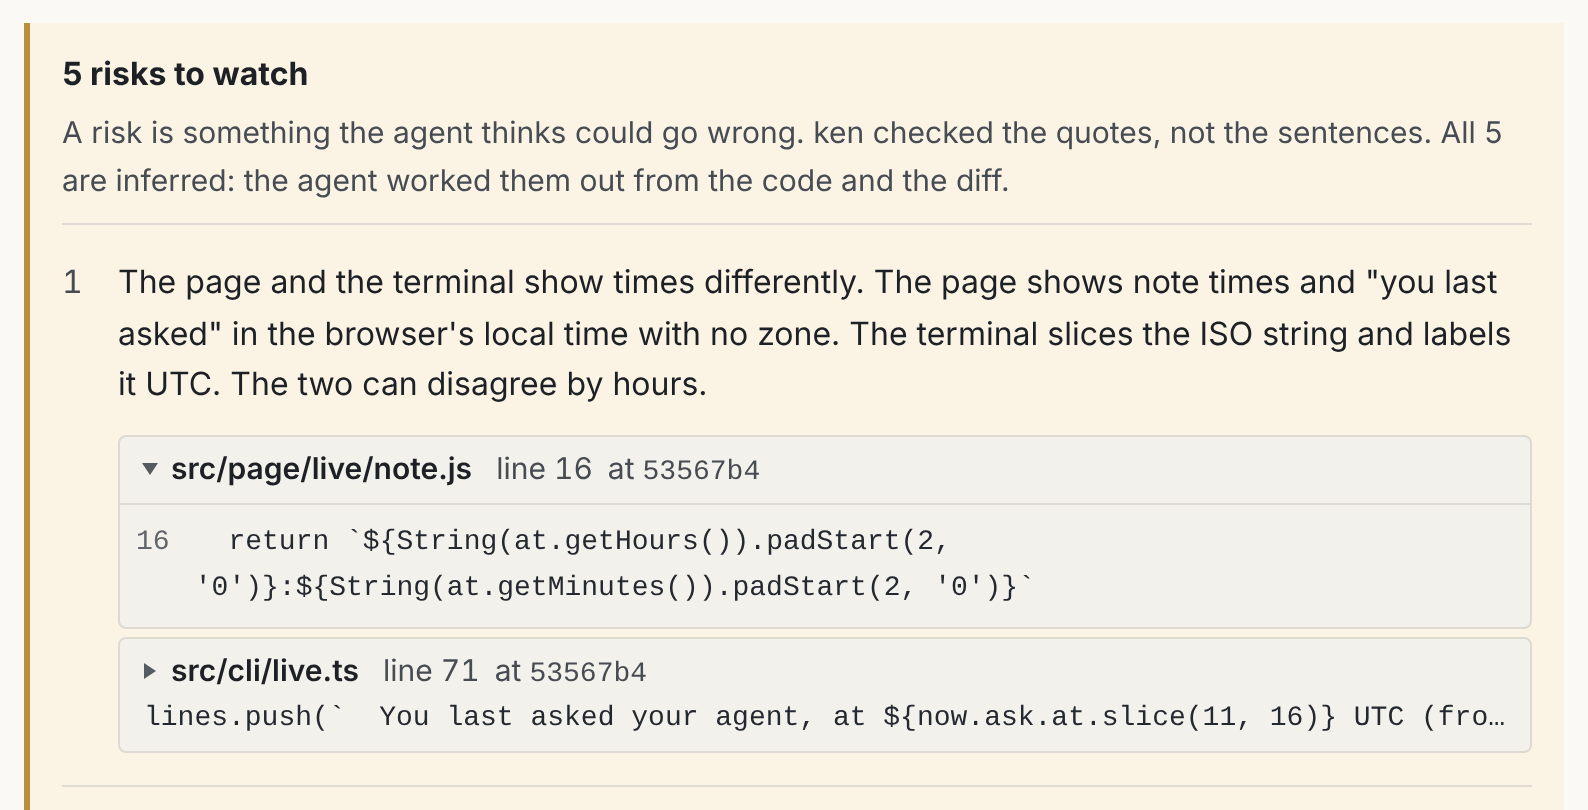
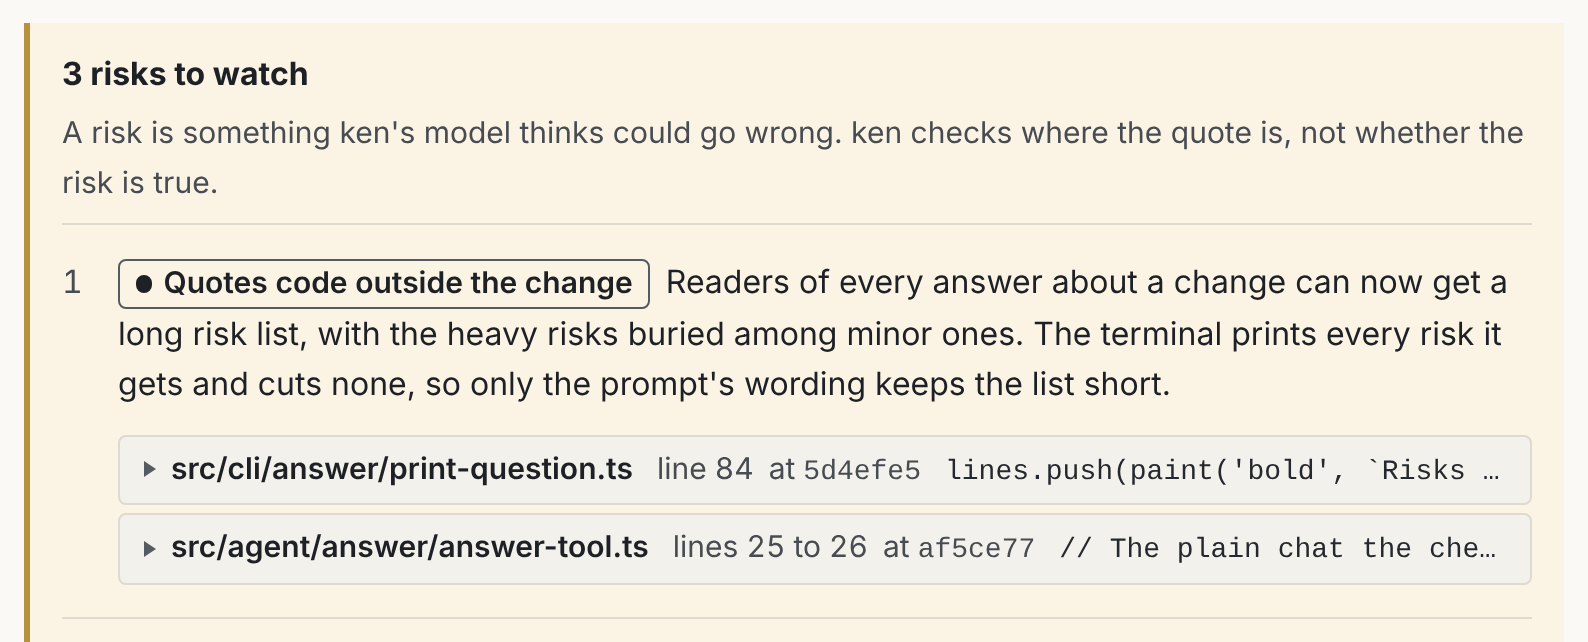
docs: the page and README use ken's new risk marks, and the first picture shows one
The landed code calls the two risk marks "Quotes code outside the
change" and "Quotes only the changed lines" and says that ken checks
where the quote is, not whether the risk is true. The page and README
now use those words, say that ken keeps every risk, and say that an
answer about a change that touches two or more parts opens with a
diagram.

The first picture is new: a risk from a real answer on Claude Opus,
through ken's local endpoint, about ken's own commit 5d4efe5. It shows
the new mark, and its quotes stay folded, so no code line wraps on a
phone. A phone now skips the Decisions picture, the cost paragraph is
two sentences, and two sentences that repeated the hero or the drawing
are gone.

Claude-Session: https://claude.ai/code/session_01QWPt5VADuetGKQKPnSahUf

diff --git a/site/index.html b/site/index.html
@@ -35,21 +35,21 @@
 			<figure class="shot">
 				<a href="images/ken-risk-with-quotes-wide.png">
 					<picture>
-						<source media="(max-width: 34rem) and (prefers-color-scheme: dark)" srcset="images/ken-risk-with-quotes-narrow-dark.png 2x" width="382" height="623" />
-						<source media="(max-width: 34rem)" srcset="images/ken-risk-with-quotes-narrow.png 2x" width="382" height="623" />
-						<source media="(prefers-color-scheme: dark)" srcset="images/ken-risk-with-quotes-wide-dark.png 2x" width="794" height="405" />
-						<img src="images/ken-risk-with-quotes-wide.png" srcset="images/ken-risk-with-quotes-wide.png 2x" width="794" height="405" alt="The heading 5 risks to watch, then risk 1: The page and the terminal show times differently. The page shows note times and &quot;you last asked&quot; in the browser's local time with no zone. The terminal slices the ISO string and labels it UTC. The two can disagree by hours. Under it are two quotes at commit 53567b4. The first is open and shows line 16 of src/page/live/note.js, which builds the time from getHours and getMinutes. The second is line 71 of src/cli/live.ts, which prints the time with the word UTC." />
+						<source media="(max-width: 34rem) and (prefers-color-scheme: dark)" srcset="images/ken-risk-with-quotes-narrow-dark.png 2x" width="366" height="525" />
+						<source media="(max-width: 34rem)" srcset="images/ken-risk-with-quotes-narrow.png 2x" width="366" height="525" />
+						<source media="(prefers-color-scheme: dark)" srcset="images/ken-risk-with-quotes-wide-dark.png 2x" width="794" height="321" />
+						<img src="images/ken-risk-with-quotes-wide.png" srcset="images/ken-risk-with-quotes-wide.png 2x" width="794" height="321" alt="The heading 3 risks to watch, and the line: A risk is something ken's model thinks could go wrong. ken checks where the quote is, not whether the risk is true. Then risk 1, marked Quotes code outside the change: Readers of every answer about a change can now get a long risk list, with the heavy risks buried among minor ones. The terminal prints every risk it gets and cuts none, so only the prompt's wording keeps the list short. Under it are two folded quotes: line 84 of src/cli/answer/print-question.ts at commit 5d4efe5, and lines 25 to 26 of src/agent/answer/answer-tool.ts at af5ce77." />
 					</picture>
 				</a>
-				<figcaption>Screenshot of ken's own page. The model was Claude Opus. It shows the first of five risks in its answer to "What did the last three commits do, and why?" about ken's own repository, with the first quote open.</figcaption>
+				<figcaption>Screenshot of ken's own page. The model was Claude Opus, through ken's local endpoint. It shows the first of three risks in ken's answer to "What did the last commit do, and why?" about ken's own repository at commit 5d4efe5, the commit that removed the cap on risks.</figcaption>
 			</figure>
 
 			<section aria-labelledby="check">
 				<h2 id="check">What is in an answer, and what ken checks</h2>
 				<p>
 					An answer has a short summary, then the decisions with their reasons, the risks, and plain statements. Ask
-					how the parts fit together and it opens with one or two basic diagrams, where each box and arrow quotes its
-					lines too.
+					how the parts fit together, or about a change that touches two or more parts, and it opens with a basic
+					diagram, where each box and arrow quotes its lines too.
 				</p>
 				<figure class="shot">
 					<a href="images/ken-answer-with-diagram-wide.png">
@@ -68,8 +68,7 @@
 				</p>
 				<p>
 					The check covers only the quotes. It does not check that a sentence, a risk or an arrow is true, and it
-					does not check the summary. ken never shows an answer that fails the check. The agent tries again, up to three
-					times. The commits, their authors and dates, and the changed lines no quote covers come from git.
+					does not check the summary. If the check rejects an answer, the agent tries again, up to three times. The commits, their authors and dates, and the changed lines no quote covers come from git.
 				</p>
 				<p>A label says how the agent knows each claim:</p>
 				<ul class="labels">
@@ -92,7 +91,7 @@
 				</ul>
 				<p>
 					ken, not the model, also marks each risk "Quotes code outside the change" or "Quotes only the changed
-					lines". That label says where a quote is. It does not say the risk is true.
+					lines". ken checks where the quote is, not whether the risk is true.
 				</p>
 			</section>
 
@@ -189,7 +188,7 @@
 				<p>
 					Outside <code>.ken/</code> in the project and <code>~/.ken/</code> on your machine, ken writes nothing. It
 					never edits your code, commits or pushes. The project record holds what passed the check: decisions, topics, and which commits belong together as one
-					task, with a short summary. You commit it for collaborators and their agents. ken only adds to it.
+					task, with a short summary. You commit it for collaborators and their agents.
 				</p>
 				<p>
 					ken uses any OpenAI-compatible endpoint, or the <code>claude</code> command through a small local endpoint
@@ -212,7 +211,7 @@
 					"Decisions" lists every decision saved for the project, with its label and where its reason comes from. A
 					later decision on the same question replaces the older one.
 				</p>
-				<figure class="shot">
+				<figure class="shot shot-wide-only">
 					<a href="images/ken-decisions-wide.png">
 						<picture>
 							<source media="(max-width: 34rem) and (prefers-color-scheme: dark)" srcset="images/ken-decisions-narrow-dark.png 2x" width="390" height="270" />
@@ -269,10 +268,10 @@
 					per pull request is a noisy measure, and a pass is not proof.
 				</p>
 				<p>
-					ken is also slower. An answer took two to four minutes on Claude Opus and four to eight on glm-5.3, against
-					one to three in the plain chat. The second look took about half of ken's input tokens. ken's answers are
-					longer, and the plain chat reads faster. In round 5 one of ken's risks was false, and still carried the label
-					for quoting code outside the change.
+					ken's answers are longer and slower to read than the plain chat's, and slower to make, at two to four minutes on
+					Claude Opus and four to eight on glm-5.3 against one to three, with the second look taking about half of
+					ken's input tokens. In round 5 one of ken's risks was false, and still carried the mark "Quotes code outside
+					the change".
 				</p>
 				<details class="rounds">
 					<summary>The five rounds, one by one</summary>
@@ -292,7 +291,7 @@
 						</li>
 						<li>
 							<strong>Round 5</strong> made the second look read the code each risk points at, and ask what happens
-							when two decisions touch the same thing. It also put the risks in order and added the risk labels. With
+							when two decisions touch the same thing. It also put the risks in order and added ken's two marks on risks. With
 							Claude Opus on both sides, three more pull requests ken had never seen passed. Finding more was a tie on
 							two and a narrow win for ken on one, and the judge said a count of finds gives a tie, or ken by one. The
 							three tuned ones passed. The two others failed narrowly on finding more, and so did the three that had

diff --git a/site/style.css b/site/style.css
@@ -368,7 +368,7 @@ footer p + p {
 		padding-top: var(--space-4);
 	}
 
-	/* A phone skips the live note's capture, to keep the page short. */
+	/* A phone skips the captures of Decisions and of a live note, to keep the page short. */
 	.shot-wide-only {
 		display: none;
 	}

diff --git a/README.md b/README.md
@@ -2,9 +2,9 @@
 
 ken explains a software project to the developer who owns it. It tells you what changed, why it changed, and how a part of the code works now, and each claim in its answer quotes lines you can check. It is built for projects where AI agents write most of the code.
 
-![Risk 1 of 5 in an answer: the page and the terminal show times differently, because the page shows note times in the browser's local time with no zone, while the terminal slices the ISO string and labels it UTC. Under it are two quotes at commit 53567b4: line 16 of src/page/live/note.js and line 71 of src/cli/live.ts.](site/images/ken-risk-with-quotes-wide.png)
+![Risk 1 of 3 in an answer, marked Quotes code outside the change: readers of every answer about a change can now get a long risk list, with the heavy risks buried among minor ones, because the terminal prints every risk it gets and cuts none. Under it are two folded quotes: line 84 of src/cli/answer/print-question.ts at commit 5d4efe5, and lines 25 to 26 of src/agent/answer/answer-tool.ts at af5ce77.](site/images/ken-risk-with-quotes-wide.png)
 
-Screenshot of ken's own page. The model was Claude Opus. It shows the first of five risks in its answer to "What did the last three commits do, and why?" about this repository.
+Screenshot of ken's own page. The model was Claude Opus, through ken's local endpoint. It shows the first of three risks in ken's answer to "What did the last commit do, and why?" about this repository at commit 5d4efe5, the commit that removed the cap on risks.
 
 ## Status
 
@@ -13,8 +13,8 @@ Early work. ken is not released, it has no license yet, there is nothing to inst
 What runs today:
 
 - `ken open` starts a page on your machine, and `ken chat` and `ken ask` answer in the terminal. `ken record`, `ken map`, `ken follow-up`, `ken who`, `ken since`, `ken catch-up`, `ken area`, `ken decide`, `ken sessions` and `ken live` are described under [Run it](#run-it).
-- An answer has a short summary, one or two basic diagrams for a high-level question, then the decisions with their reasons, the risks, and statements. Each carries quotes of lines of code, of a commit message, or of a saved session of the coding agent. ken checks that every quoted line is where the quote says, and rejects an answer with a quote that is not there. It does not check that a sentence, a risk or an arrow is true, and it does not check the summary. ken shows no answer that fails the check: the agent tries again, up to three times. The commits, authors and dates, and which changed blocks and commit messages the quotes cover, come from git.
-- For a question about a change, ken searches the code at the head commit for the names the change defines, alters or removes, and gives the model the places that use them, under "Used elsewhere". After the first answer passes, ken asks the model for a second look at its risks: read the code each risk points at, ask what happens when two decisions touch the same thing, and put the risks in order, heaviest first.
+- An answer has a short summary, one or two basic diagrams for a high-level question or a change that touches two or more parts, then the decisions with their reasons, the risks, and statements. Each carries quotes of lines of code, of a commit message, or of a saved session of the coding agent. ken checks that every quoted line is where the quote says, and rejects an answer with a quote that is not there. It does not check that a sentence, a risk or an arrow is true, and it does not check the summary. ken shows no answer that fails the check: the agent tries again, up to three times. The commits, authors and dates, and which changed blocks and commit messages the quotes cover, come from git.
+- For a question about a change, ken searches the code at the head commit for the names the change defines, alters or removes, and gives the model the places that use them, under "Used elsewhere". After the first answer passes, ken asks the model for a second look at its risks: read the code each risk points at, ask what happens when two decisions touch the same thing, and put the risks in order, heaviest first. ken keeps every risk the model sends. ken marks each risk "Quotes code outside the change" or "Quotes only the changed lines". ken checks where the quote is, not whether the risk is true.
 - ken sets a label where it can. "Recorded" means a coding agent logged the decision with `ken decide` as it worked, or the reason is quoted from a commit message. "From the session" means the reason is quoted from a saved session. "Inferred" means the agent worked it out. "Found by search" marks a link between pieces of code that the agent found by searching and did not prove.
 - The project record lives in `.ken/record/` in your repository, as JSON Lines files that ken only adds to. You commit it, so a collaborator and their agents can read it. ken never commits, and never writes to your project besides `.ken/`. Your question history and your understanding map live in `~/.ken/projects/<first commit>/` on your machine.
 - The understanding map keeps what you said you know, topic by topic. A topic you know whose quoted code has not changed shortens to one line. When the code changed, the answer starts with what changed. "Waiting on you" lists the decisions that need your call and the topics that changed since you understood them, with who changed them. You answer a decision with "Keep what was chosen" or "I want it changed". ken saves your answer and note, and changes no code. "Decisions" lists every decision in the record, and a later decision on the same question replaces the older one.
@@ -34,9 +34,9 @@ ken won trust without the diff and finding it again in every round, on both mode
 
 - Rounds 1 to 3 ran ken on glm-5.3, then on Claude Opus, against the plain chat on Claude Opus. Rounds 1 and 2 used three pull requests, and ken was tuned on these three. Round 3 added two more. ken lost finding more in every round.
 - Round 4 added the "Used elsewhere" list and the second look at risks. With Claude Opus on both sides, ken passed on the three tuned pull requests for the first time, with a tie on finding more. It failed on the two others, and lost finding more on one of them. On three pull requests it had never seen, it passed narrowly, with a tie. With ken on glm-5.3, those three failed.
-- Round 5 made the second look read the code each risk points at and ask what happens when two decisions touch the same thing. It also put the risks in order and labelled each by whether it quotes code outside the change. With Claude Opus on both sides, three more pull requests ken had never seen passed. Finding more was a tie on two and a narrow win for ken on one, and the judge said a count of finds gives a tie, or ken by one. The three tuned ones passed. The two others failed narrowly on finding more, and so did the three that had passed narrowly in round 4. With ken on glm-5.3, the three newest passed, with a tie.
+- Round 5 made the second look read the code each risk points at and ask what happens when two decisions touch the same thing. It also put the risks in order and added ken's marks on risks. With Claude Opus on both sides, three more pull requests ken had never seen passed. Finding more was a tie on two and a narrow win for ken on one, and the judge said a count of finds gives a tie, or ken by one. The three tuned ones passed. The two others failed narrowly on finding more, and so did the three that had passed narrowly in round 4. With ken on glm-5.3, the three newest passed, with a tie.
 
-So ken does not find more than a plain chat. On finding more it is about level: sometimes a tie, sometimes a narrow loss, once a narrow win. The same three pull requests passed in one round and failed in the next, so one answer per pull request is a noisy measure, and a pass is not proof. ken's answers cost more. One took two to four minutes on Claude Opus and four to eight on glm-5.3, against one to three in the plain chat, and the second look takes about half of ken's input tokens. ken's answers are longer, and the plain chat reads faster. In round 5, one of ken's risks was false and carried the label now named "Quotes code outside the change". That label says where a quote is. It does not say the risk is true. Every pull request came from one repository, and one AI judge scored each round.
+So ken does not find more than a plain chat. On finding more it is about level: sometimes a tie, sometimes a narrow loss, once a narrow win. The same three pull requests passed in one round and failed in the next, so one answer per pull request is a noisy measure, and a pass is not proof. ken's answers cost more. One took two to four minutes on Claude Opus and four to eight on glm-5.3, against one to three in the plain chat, and the second look takes about half of ken's input tokens. ken's answers are longer, and the plain chat reads faster. In round 5, one of ken's risks was false and carried the mark now named "Quotes code outside the change". ken checks where the quote is, not whether the risk is true. Every pull request came from one repository, and one AI judge scored each round.
 
 A last check on three more pull requests ken has never seen, #107, #93 and #92, is still running. Its result will go here.
 
